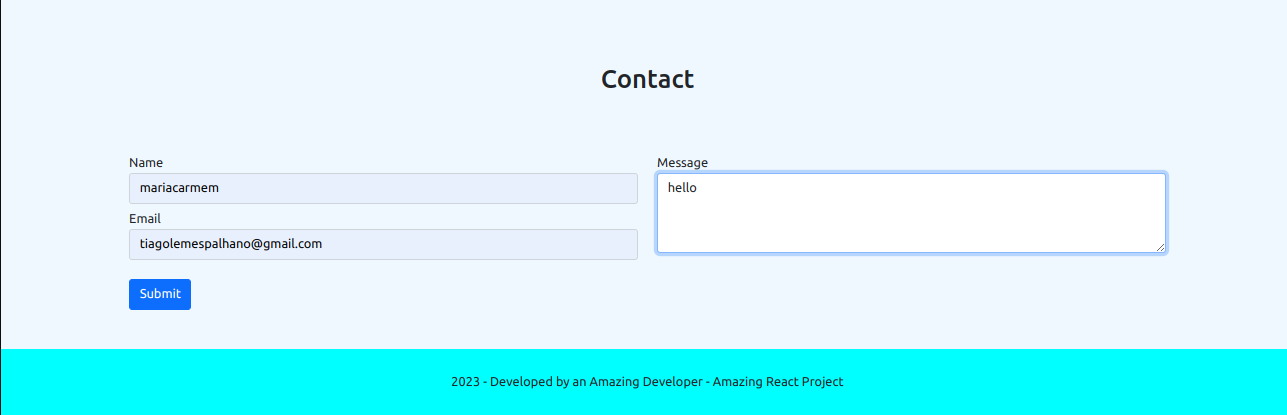
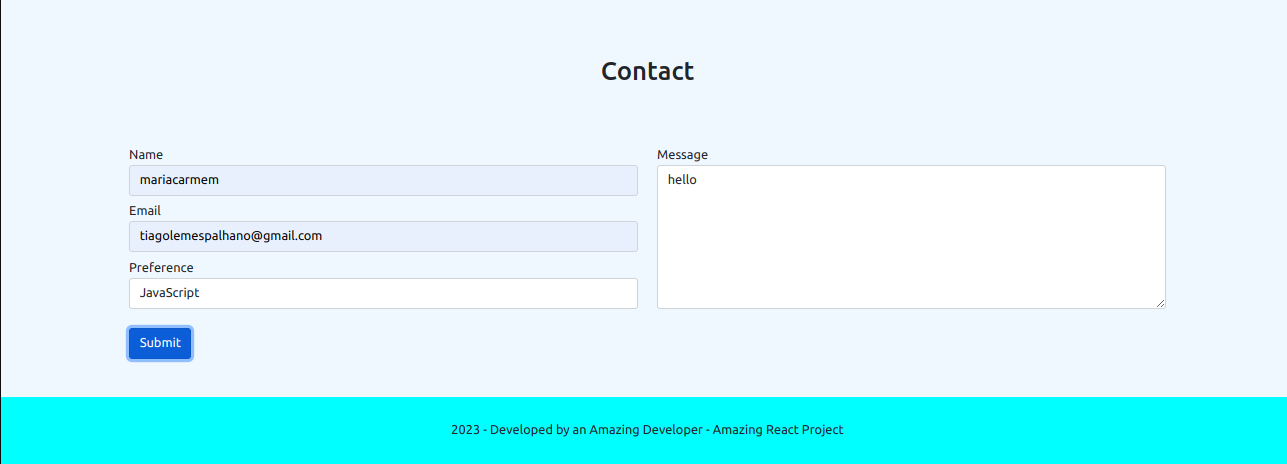
Using select on form

diff --git a/src/components/Contact.jsx b/src/components/Contact.jsx
@@ -46,6 +46,16 @@ function Contact() {
 								onChange={handleChange}
 							/>
 						</label>
+
+						<label htmlFor="preference" className="form-label col-12">
+							Preference
+							<select value={inputs.preference} onChange={handleChange} className="form-control">
+								<option value="js">JavaScript</option>
+								<option value="php">PHP Hyper Text Preprocessor</option>
+								<option value="sql">Structured Query Language</option>
+								<option value="css">Cascade Style Sheet</option>
+							</select>
+						</label>
 					</div>
 						
 

diff --git a/src/css/contact.css b/src/css/contact.css
@@ -1,3 +1,3 @@
 .textarea-message {
-    height: 100px;
+    height: 180px;
 }

diff --git a/README.md b/README.md
@@ -1,3 +1,4 @@
 ![Website](public/img/1.png)
 ![Website](public/img/2.png)
 ![Website](public/img/3.png)
+![Website](public/img/4.png)
